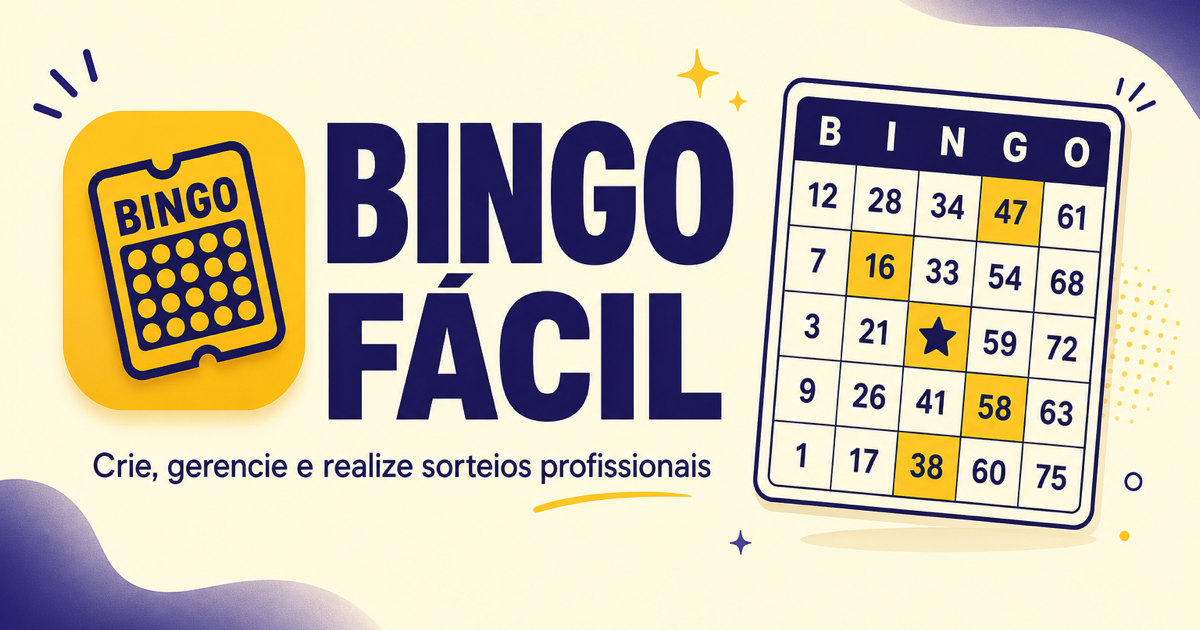
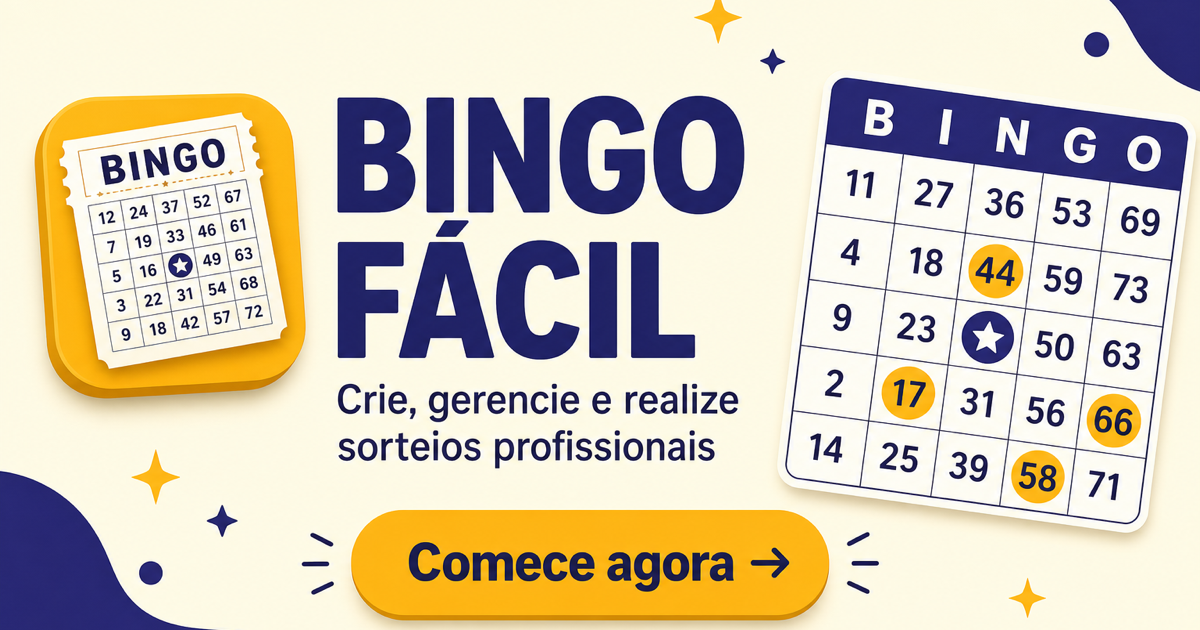
fix(seo): improve OG title length and add CTA to preview image
Use a 59-character page title and refresh the share image with a visible call-to-action.

diff --git a/src/app/__root.tsx b/src/app/__root.tsx
@@ -19,20 +19,20 @@ export const Route = createRootRoute({
       meta: [
         { charSet: 'utf-8' },
         { name: 'viewport', content: 'width=device-width, initial-scale=1.0' },
-        { title: siteConfig.name },
+        { title: siteConfig.title },
         { name: 'description', content: siteConfig.description },
         { property: 'og:type', content: 'website' },
         { property: 'og:site_name', content: siteConfig.name },
         { property: 'og:locale', content: siteConfig.locale },
         { property: 'og:url', content: siteUrl },
-        { property: 'og:title', content: siteConfig.name },
+        { property: 'og:title', content: siteConfig.title },
         { property: 'og:description', content: siteConfig.description },
         { property: 'og:image', content: ogImageUrl },
         { property: 'og:image:width', content: '1200' },
         { property: 'og:image:height', content: '630' },
         { property: 'og:image:alt', content: `${siteConfig.name} — ${siteConfig.description}` },
         { name: 'twitter:card', content: 'summary_large_image' },
-        { name: 'twitter:title', content: siteConfig.name },
+        { name: 'twitter:title', content: siteConfig.title },
         { name: 'twitter:description', content: siteConfig.description },
         { name: 'twitter:image', content: ogImageUrl },
         { name: 'twitter:image:alt', content: `${siteConfig.name} — ${siteConfig.description}` },

diff --git a/src/lib/site.ts b/src/lib/site.ts
@@ -3,6 +3,7 @@ const DEFAULT_SITE_URL = 'http://localhost:3001';
 export const siteConfig = {
   name: 'Bingo Fácil',
   shortName: 'Bingo Fácil',
+  title: 'Bingo Fácil — Gerencie eventos, cartelas e sorteios ao vivo',
   description:
     'Crie, gerencie e realize sorteios profissionais com conferência automática de cartelas.',
   locale: 'pt_BR',